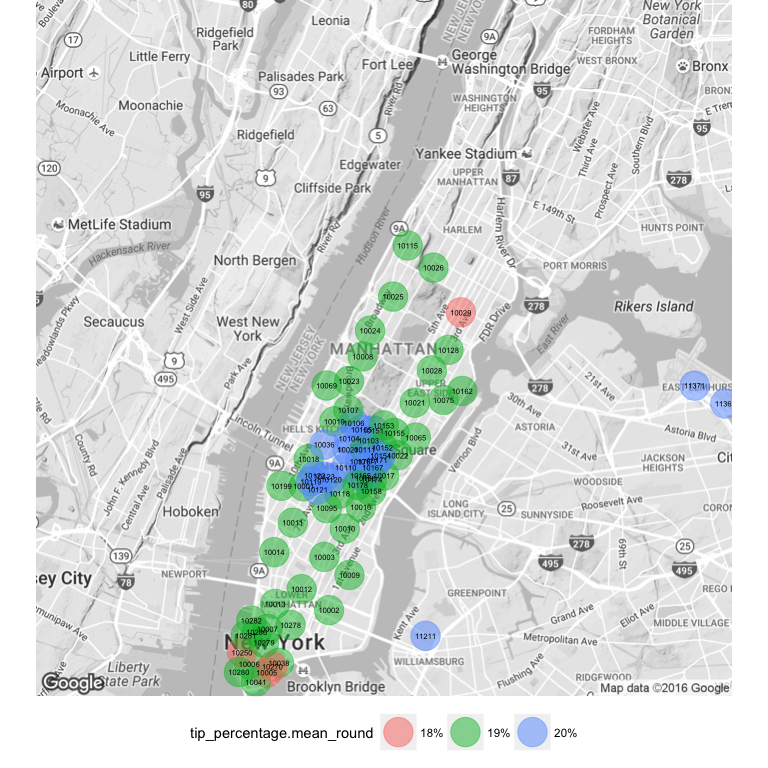
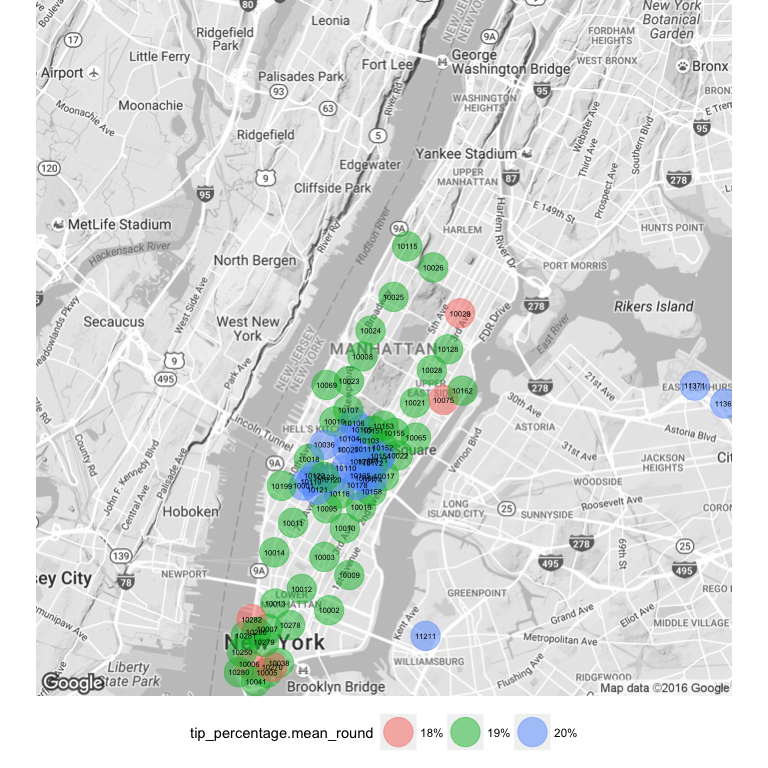
Only payments via credit card are left

diff --git a/README.md b/README.md
@@ -73,26 +73,26 @@ str(trips_short)
 ```
 
     ## 'data.frame':    250000 obs. of  20 variables:
-    ##  $ vendor_id         : Factor w/ 2 levels "1","2": 2 2 1 2 1 2 2 1 2 1 ...
-    ##  $ pickup_datetime   : POSIXlt, format: "2015-07-22 07:27:40" "2015-07-11 12:28:32" ...
-    ##  $ dropoff_datetime  : POSIXlt, format: "2015-07-22 07:41:14" "2015-07-11 12:46:30" ...
-    ##  $ passenger_count   : int  1 1 1 5 1 2 1 1 1 1 ...
-    ##  $ trip_distance     : num  3.08 5.7 6.9 1.51 2.1 1.92 3.11 7.2 0.59 1.9 ...
+    ##  $ vendor_id         : Factor w/ 2 levels "1","2": 2 2 1 1 2 2 2 1 2 1 ...
+    ##  $ pickup_datetime   : POSIXlt, format: "2015-07-16 22:03:44" "2015-07-03 13:39:46" ...
+    ##  $ dropoff_datetime  : POSIXlt, format: "2015-07-16 22:10:38" "2015-07-03 13:55:32" ...
+    ##  $ passenger_count   : int  1 2 1 1 4 1 1 1 5 2 ...
+    ##  $ trip_distance     : num  1.58 3.53 3.3 11.6 0.4 5.3 2.23 1.7 0.85 1.5 ...
     ##  $ pickup_longitude  : num  -74 -74 -74 -74 -74 ...
-    ##  $ pickup_latitude   : num  40.7 40.8 40.8 40.7 40.7 ...
+    ##  $ pickup_latitude   : num  40.7 40.7 40.8 40.7 40.8 ...
     ##  $ rate_code         : Factor w/ 7 levels "1","2","3","4",..: 1 1 1 1 1 1 1 1 1 1 ...
     ##  $ store_and_fwd_flag: Factor w/ 2 levels "N","Y": 1 1 1 1 1 1 1 1 1 1 ...
-    ##  $ dropoff_longitude : num  -74 -74 -74 -74 -74 ...
-    ##  $ dropoff_latitude  : num  40.8 40.7 40.7 40.7 40.7 ...
+    ##  $ dropoff_longitude : num  -74 -74 -74 -73.9 -74 ...
+    ##  $ dropoff_latitude  : num  40.8 40.8 40.8 40.8 40.8 ...
     ##  $ payment_type      : Factor w/ 4 levels "1","2","3","4": 1 1 1 1 1 1 1 1 1 1 ...
-    ##  $ fare_amount       : num  12 19 25 8 10 9 13.5 25.5 4.5 9 ...
-    ##  $ extra             : num  0 0 0 0.5 1 0 0 0 0 0 ...
+    ##  $ fare_amount       : num  7.5 14.5 14 43 4 19.5 9.5 9.5 5.5 11.5 ...
+    ##  $ extra             : num  0.5 0 0.5 0 0 0.5 0.5 1 0 0 ...
     ##  $ mta_tax           : num  0.5 0.5 0.5 0.5 0.5 0.5 0.5 0.5 0.5 0.5 ...
-    ##  $ tip_amount        : num  1.2 2 7.74 1 2 1 3 2 1.06 2.9 ...
+    ##  $ tip_amount        : num  1.76 2.7 3.05 10 1.44 4.16 3.24 2 1.26 2 ...
     ##  $ tolls_amount      : num  0 0 0 0 0 0 0 0 0 0 ...
     ##  $ imp_surcharge     : num  0.3 0.3 0.3 0.3 0.3 0.3 0.3 0.3 0.3 0.3 ...
-    ##  $ total_amount      : num  14 21.8 33.5 10.3 13.8 ...
-    ##  $ tip_percentage    : num  9.37 10.1 30 10.75 16.95 ...
+    ##  $ total_amount      : num  10.56 18 18.35 53.8 6.24 ...
+    ##  $ tip_percentage    : num  20 17.6 19.9 22.8 30 ...
 
 5. Explore data
 ---------------
@@ -102,14 +102,14 @@ Let's see how our trips are spread geographically:
     ## Map from URL : http://maps.googleapis.com/maps/api/staticmap?center=Manhattan+New+York&zoom=11&size=640x640&scale=2&maptype=terrain&language=en-EN&sensor=false
     ## Information from URL : http://maps.googleapis.com/maps/api/geocode/json?address=Manhattan%20New%20York&sensor=false
 
-    ## Warning: Removed 30 rows containing missing values (geom_point).
+    ## Warning: Removed 34 rows containing missing values (geom_point).
 
 ![](NYCtrips_files/figure-markdown_github/unnamed-chunk-6-1.png)
 
 Let's see how tip percentages look like:
 
-    ##      Min.   1st Qu.    Median      Mean   3rd Qu.      Max. 
-    ##     0.017    16.950    20.000    19.640    20.000 29330.000
+    ##     Min.  1st Qu.   Median     Mean  3rd Qu.     Max. 
+    ##     0.01    17.05    20.00    19.80    20.00 29330.00
 
 The maximum value seems to be extreme. Let's see how extreme are the top percentiles:
 
@@ -118,7 +118,7 @@ quantile(trips_short$tip_percentage,c(0.95,0.99,0.999))
 ```
 
     ##       95%       99%     99.9% 
-    ##  29.64602  33.89831 100.00036
+    ##  29.67480  34.09091 103.17488
 
 To make our data more consistent we remove all records with tips greater than 100%:
 
@@ -154,23 +154,23 @@ Now let's see if there are any variables affecting the tip\_percentage people pa
     ## 
     ## Residuals:
     ##     Min      1Q  Median      3Q     Max 
-    ## -20.490  -2.228   0.695   1.178  82.103 
+    ## -19.987  -2.264   0.637   1.203  83.276 
     ## 
     ## Coefficients:
     ##                        Estimate Std. Error t value Pr(>|t|)    
-    ## (Intercept)          443.937612  34.687504  12.798  < 2e-16 ***
-    ## trip_distance         -0.109540   0.003753 -29.185  < 2e-16 ***
-    ## pickup_datetime$hour  -0.001396   0.001826  -0.764  0.44465    
-    ## pickup_datetime$yday   0.002651   0.001374   1.930  0.05365 .  
-    ## pickup_longitude       4.933525   0.380439  12.968  < 2e-16 ***
-    ## pickup_latitude       -1.473956   0.469020  -3.143  0.00167 ** 
-    ## passenger_count        0.047608   0.009046   5.263 1.42e-07 ***
+    ## (Intercept)          539.769443  36.050848  14.972  < 2e-16 ***
+    ## trip_distance         -0.129574   0.004189 -30.933  < 2e-16 ***
+    ## pickup_datetime$hour  -0.003530   0.001832  -1.927   0.0540 .  
+    ## pickup_datetime$yday  -0.001601   0.001378  -1.162   0.2453    
+    ## pickup_longitude       6.304339   0.393750  16.011  < 2e-16 ***
+    ## pickup_latitude       -1.313044   0.472955  -2.776   0.0055 ** 
+    ## passenger_count        0.036227   0.009083   3.989 6.65e-05 ***
     ## ---
     ## Signif. codes:  0 '***' 0.001 '**' 0.01 '*' 0.05 '.' 0.1 ' ' 1
     ## 
-    ## Residual standard error: 6.038 on 249743 degrees of freedom
-    ## Multiple R-squared:  0.003624,   Adjusted R-squared:  0.0036 
-    ## F-statistic: 151.4 on 6 and 249743 DF,  p-value: < 2.2e-16
+    ## Residual standard error: 6.063 on 249726 degrees of freedom
+    ## Multiple R-squared:  0.004049,   Adjusted R-squared:  0.004025 
+    ## F-statistic: 169.2 on 6 and 249726 DF,  p-value: < 2.2e-16
 
 R squared is very small so this linear regression does not represent well out dataset, even taking into account we have some statistically significant p-values for slopes of some variables.
 
@@ -192,19 +192,19 @@ zones <- group_data(trips_short_zip)
 str(zones)
 ```
 
-    ## 'data.frame':    207 obs. of  12 variables:
-    ##  $ zipcode                    : Factor w/ 207 levels "10001","10002",..: 1 2 3 4 5 6 7 8 9 10 ...
-    ##  $ lat                        : num  40.7 40.7 40.7 40.7 40.7 ...
+    ## 'data.frame':    210 obs. of  12 variables:
+    ##  $ zipcode                    : Factor w/ 210 levels "10001","10002",..: 1 2 3 4 5 6 7 8 9 10 ...
+    ##  $ lat                        : num  40.8 40.7 40.7 40.7 40.7 ...
     ##  $ lon                        : num  -74 -74 -74 -74 -74 ...
-    ##  $ amount                     : num  1449 5299 13373 1121 598 ...
-    ##  $ tip_percentage.mean        : num  19.4 18.7 19 18.3 19.3 ...
+    ##  $ amount                     : num  1401 5466 13326 1062 563 ...
+    ##  $ tip_percentage.mean        : num  19.7 18.8 19.1 18.6 18.5 ...
     ##  $ tip_percentage.median      : num  20 20 20 20 20 ...
-    ##  $ tip_amount.mean            : num  2.39 2.65 2.35 3.4 3.63 ...
-    ##  $ tip_amount.median          : num  1.96 2.16 1.96 2.95 3 2.15 2 2 1.86 1.95 ...
-    ##  $ tip_amount.mean_round      : Factor w/ 19 levels "0$","1$","10$",..: 9 12 9 12 13 12 9 9 9 9 ...
-    ##  $ tip_amount.median_round    : Factor w/ 19 levels "0$","1$","10$",..: 9 9 9 12 12 9 9 9 9 9 ...
-    ##  $ tip_percentage.median_round: Factor w/ 23 levels "10%","11%","12%",..: 11 11 11 11 11 11 11 11 11 11 ...
-    ##  $ tip_percentage.mean_round  : Factor w/ 25 levels "10%","11%","12%",..: 10 10 10 9 10 10 10 10 10 10 ...
+    ##  $ tip_amount.mean            : num  2.45 2.63 2.35 3.42 3.52 ...
+    ##  $ tip_amount.median          : num  2 2.19 1.96 2.95 3 2.15 1.96 2 1.89 1.95 ...
+    ##  $ tip_amount.mean_round      : Factor w/ 22 levels "0$","1$","10$",..: 10 14 10 14 17 14 10 10 10 10 ...
+    ##  $ tip_amount.median_round    : Factor w/ 23 levels "0$","1$","10$",..: 11 11 11 15 15 11 11 11 11 11 ...
+    ##  $ tip_percentage.median_round: Factor w/ 22 levels "10%","12%","15%",..: 9 9 9 9 9 9 9 9 9 9 ...
+    ##  $ tip_percentage.mean_round  : Factor w/ 25 levels "10%","12%","13%",..: 10 8 8 8 7 8 8 8 8 8 ...
 
 The lower the *amount* of records for a given zone we have the more extreme the aggregated values are in comparison to zones with more records. Because of that in our analysis we consider only zones with more than 500 records (500 is taken arbitrary as a big enough number of records).
 
@@ -270,7 +270,7 @@ welch_test <- t.test(TimesSquare_10036$tip_percentage,WorldTradeCenter_10250$tip
 welch_test$p.value
 ```
 
-    ## [1] 4.849112e-10
+    ## [1] 1.810699e-08
 
 The Welch test shows that people starting from Times Square really tend to pay more tips (p-value=0). Let's check how much more they tend to pay:
 
@@ -280,9 +280,9 @@ cohen_distance$estimate
 ```
 
     ## Treatment 
-    ## 0.2102142
+    ## 0.1819663
 
-Cohen's d is 0.21.
+Cohen's d is 0.18.
 
 Let's compare two airports (JFK and LaGuardia):
 
@@ -291,7 +291,7 @@ welch_test <- t.test(LaGuardia_11371$tip_percentage,JFK_11430$tip_percentage,alt
 welch_test$p.value
 ```
 
-    ## [1] 1.134836e-18
+    ## [1] 2.992254e-18
 
 **People taking taxis from LaGuardia airport seem to pay more than people from JFK (p-value=0)**.
 
@@ -301,7 +301,7 @@ cohen_distance$estimate
 ```
 
     ## Treatment 
-    ## 0.1822718
+    ## 0.1807705
 
 Cohen's d is 0.18.
 
